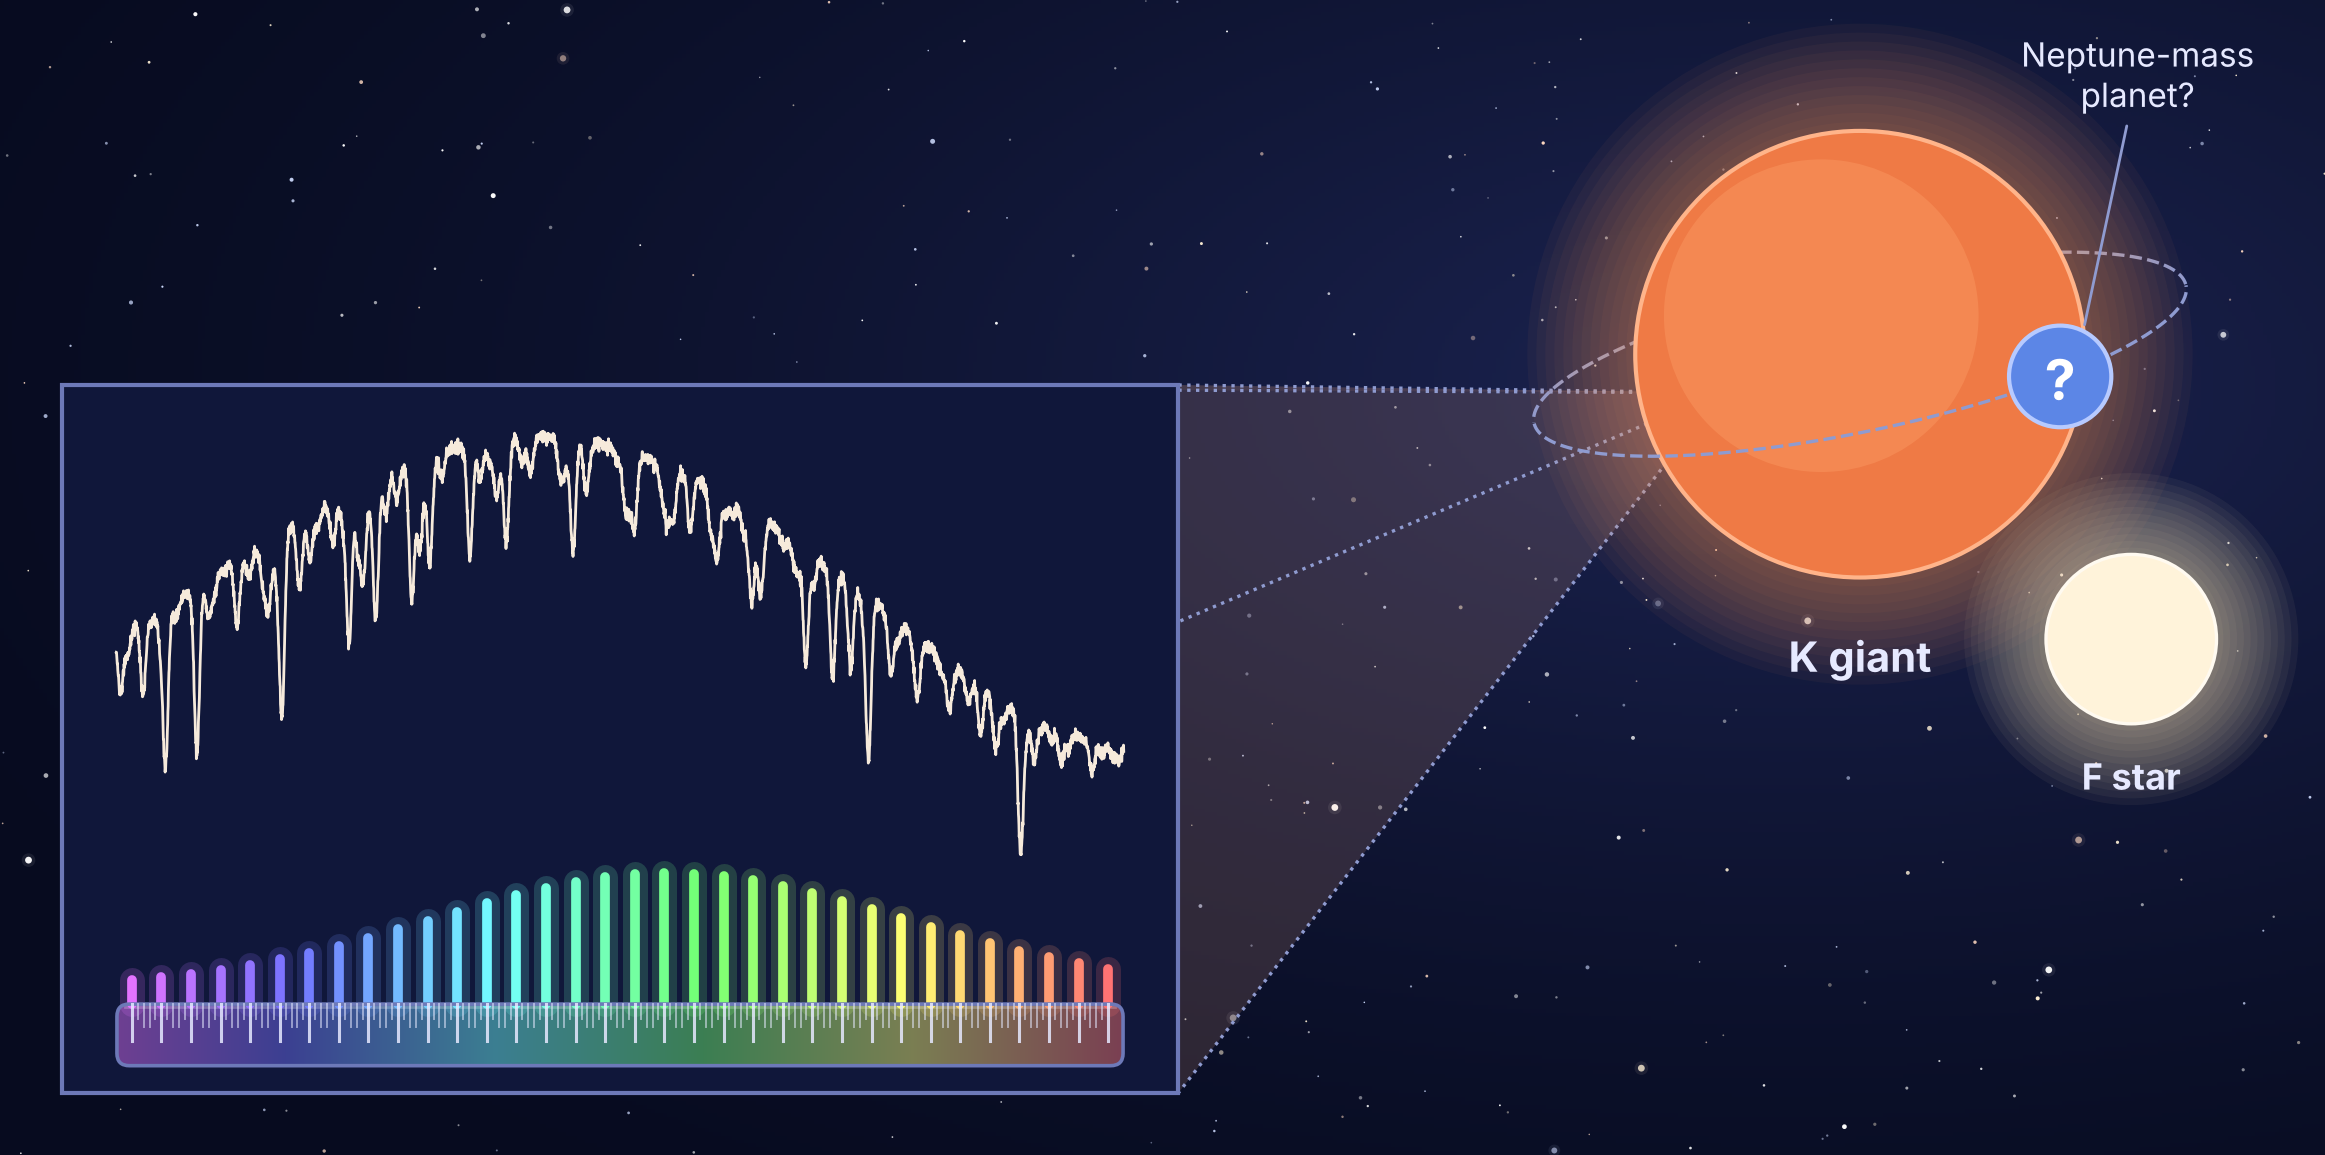
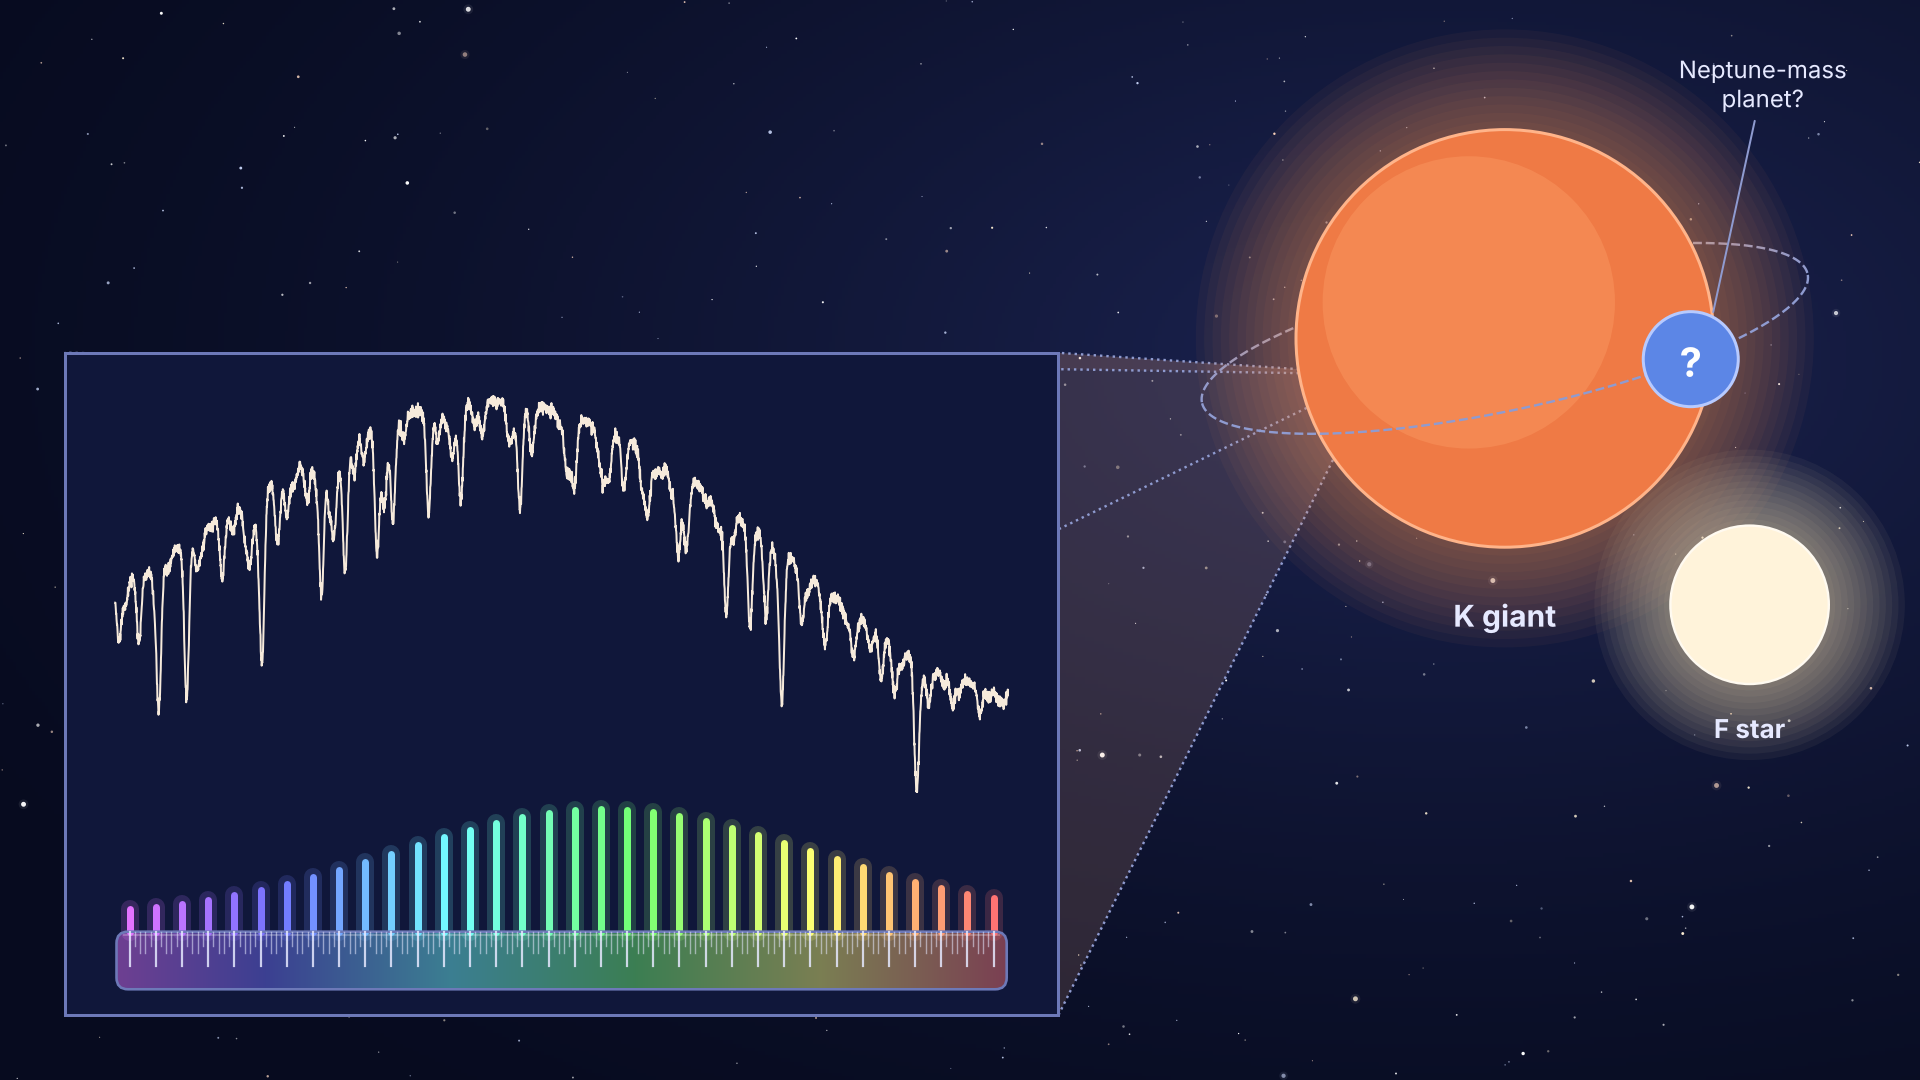
Render K giant schematic at 16:9 for PowerPoint (1920x1080)
Claude-Session: https://claude.ai/code/session_01RcZ45XCFN51QkCQ5FVA6Ds

diff --git a/scripts/kgiant_spectrum.py b/scripts/kgiant_spectrum.py
@@ -6,8 +6,10 @@ import matplotlib.pyplot as plt
 from matplotlib.patches import Circle, Ellipse, FancyBboxPatch, Polygon, Rectangle
 from matplotlib.colors import hsv_to_rgb, to_rgb
 
-fig, ax = plt.subplots(figsize=(15, 7.5))
-ax.set_xlim(0, 15)
+W, H = 40 / 3, 7.5                                     # 16:9, PowerPoint widescreen (inches)
+fig = plt.figure(figsize=(W, H))
+ax = fig.add_axes([0, 0, 1, 1])
+ax.set_xlim(0, W)
 ax.set_ylim(0, 7.5)
 ax.set_aspect("equal")
 ax.axis("off")
@@ -22,14 +24,14 @@ CONE = "#ffb48a"
 PANEL_FACE, PANEL_EDGE, SPEC = "#10173a", "#6d79b8", "#f6eadb"
 
 # --- Space background: soft radial gradient plus a field of stars ------------
-gx, gy = np.meshgrid(np.linspace(0, 15, 600), np.linspace(0, 7.5, 300))
-r = np.hypot((gx - 11.5) / 15, (gy - 5) / 7.5)
+gx, gy = np.meshgrid(np.linspace(0, W, 600), np.linspace(0, 7.5, 300))
+r = np.hypot((gx - 10) / W, (gy - 5) / 7.5)
 mix = np.clip(1 - r / 0.9, 0, 1)[..., None] ** 1.5
 c0 = np.array(to_rgb(BG_DARK)); c1 = np.array(to_rgb(BG_LIGHT))
-ax.imshow(c0 + (c1 - c0) * mix, extent=(0, 15, 0, 7.5), origin="lower", zorder=-10)
+ax.imshow(c0 + (c1 - c0) * mix, extent=(0, W, 0, H), origin="lower", zorder=-10)
 srng = np.random.default_rng(3)
 n_bg = 450
-sxs, sys_ = srng.uniform(0, 15, n_bg), srng.uniform(0, 7.5, n_bg)
+sxs, sys_ = srng.uniform(0, W, n_bg), srng.uniform(0, 7.5, n_bg)
 star_cols = srng.choice(["#ffffff", "#cfdcff", "#fff1d6", "#ffd9c2"], n_bg, p=[.5, .25, .15, .1])
 sizes = np.minimum(srng.pareto(2.5, n_bg) * 1.5 + 0.3, 6)
 ax.scatter(sxs, sys_, s=sizes, c=star_cols, alpha=srng.uniform(0.35, 1, n_bg), lw=0, zorder=-9)
@@ -37,8 +39,8 @@ bright = sizes > 3.5
 ax.scatter(sxs[bright], sys_[bright], s=sizes[bright] * 4, c=star_cols[bright], alpha=0.08, lw=0, zorder=-9)
 
 # --- Stars ------------------------------------------------------------------
-kx, ky, kr = 12.0, 5.2, 1.45          # K giant
-fx, fy, fr = 13.75, 3.35, 0.55        # F star
+kx, ky, kr = 10.45, 5.15, 1.45          # K giant
+fx, fy, fr = 12.15, 3.3, 0.55        # F star
 for k in range(12):                                     # layered glows
     ax.add_patch(Circle((kx, ky), kr * (1 + 0.04 * (k + 1)), color=K_GLOW, alpha=0.045, lw=0, zorder=2.5))
     ax.add_patch(Circle((fx, fy), fr * (1 + 0.08 * (k + 1)), color=F_GLOW, alpha=0.05, lw=0, zorder=3))
@@ -69,7 +71,7 @@ ax.annotate("Neptune-mass\nplanet?", xy=(px + 0.15, py + 0.3), xytext=(px + 0.5,
             ha="center", fontsize=12, color=TEXT, arrowprops=dict(arrowstyle="-", color=LINE, lw=1))
 
 # --- Spectrum panel -----------------------------------------------------------
-bx0, by0, bw, bh = 0.4, 0.4, 7.2, 4.6
+bx0, by0, bw, bh = 0.45, 0.45, 6.9, 4.6
 # Light "pyramid" from the K giant to the panel (as in the lux diagram)
 apex = (kx - 0.9, ky - 0.25)
 corners = [(bx0, by0 + bh), (bx0 + bw, by0 + bh), (bx0 + bw, by0), (bx0, by0)]
@@ -137,5 +139,5 @@ for x, h, c in zip(tx, env, cols):
     ax.plot([x, x], [ry1, ry1 + h * ch], color=c, lw=3.5, solid_capstyle="round", zorder=5)
 
 out = __file__.replace("scripts/kgiant_spectrum.py", "images/kgiant_spectrum.png")
-fig.savefig(out, dpi=200, bbox_inches="tight", pad_inches=0, facecolor=BG_DARK)
+fig.savefig(out, dpi=144, facecolor=BG_DARK)             # 1920 x 1080 px
 print("saved", out)
